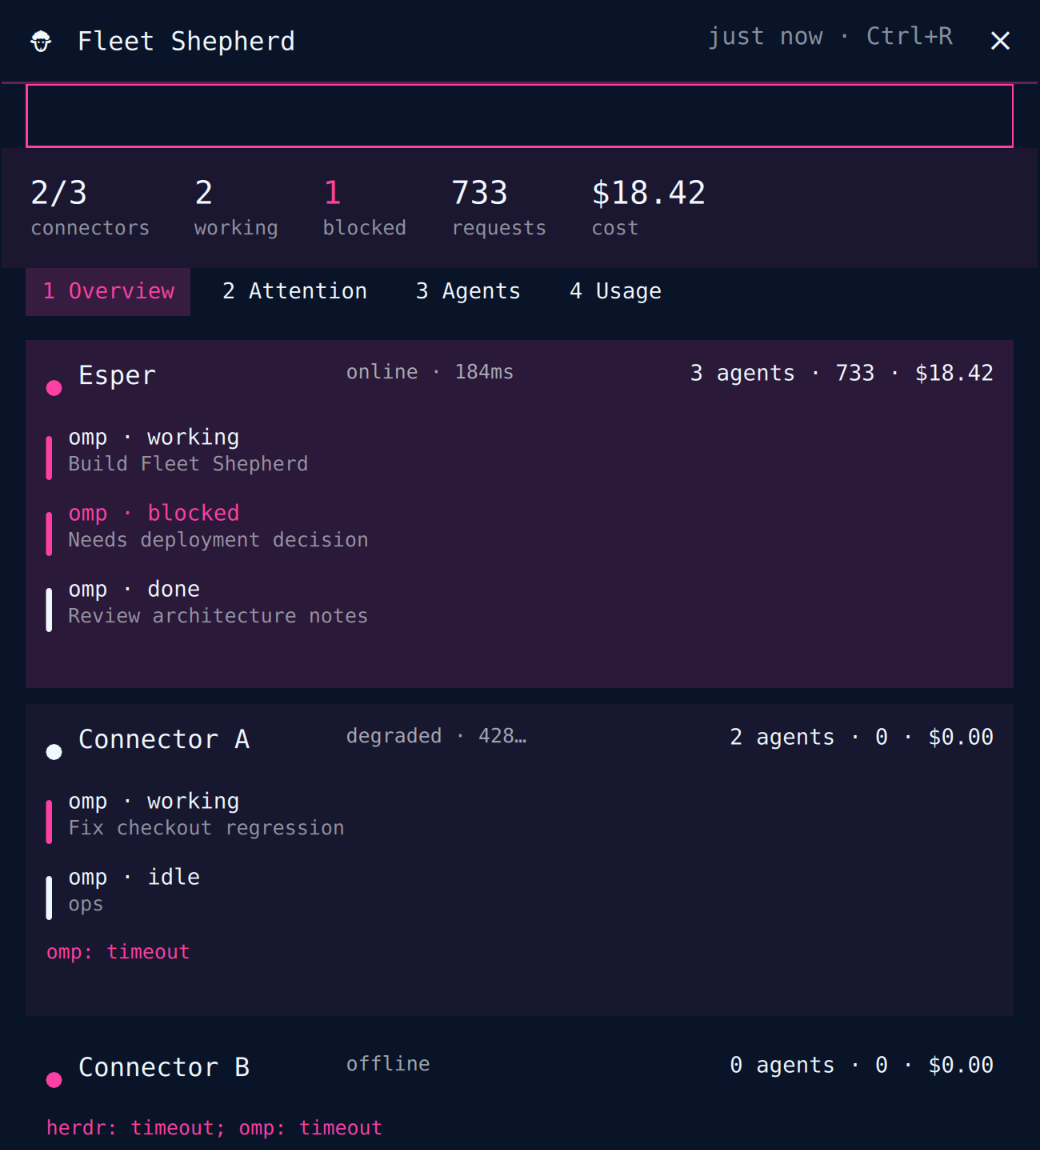
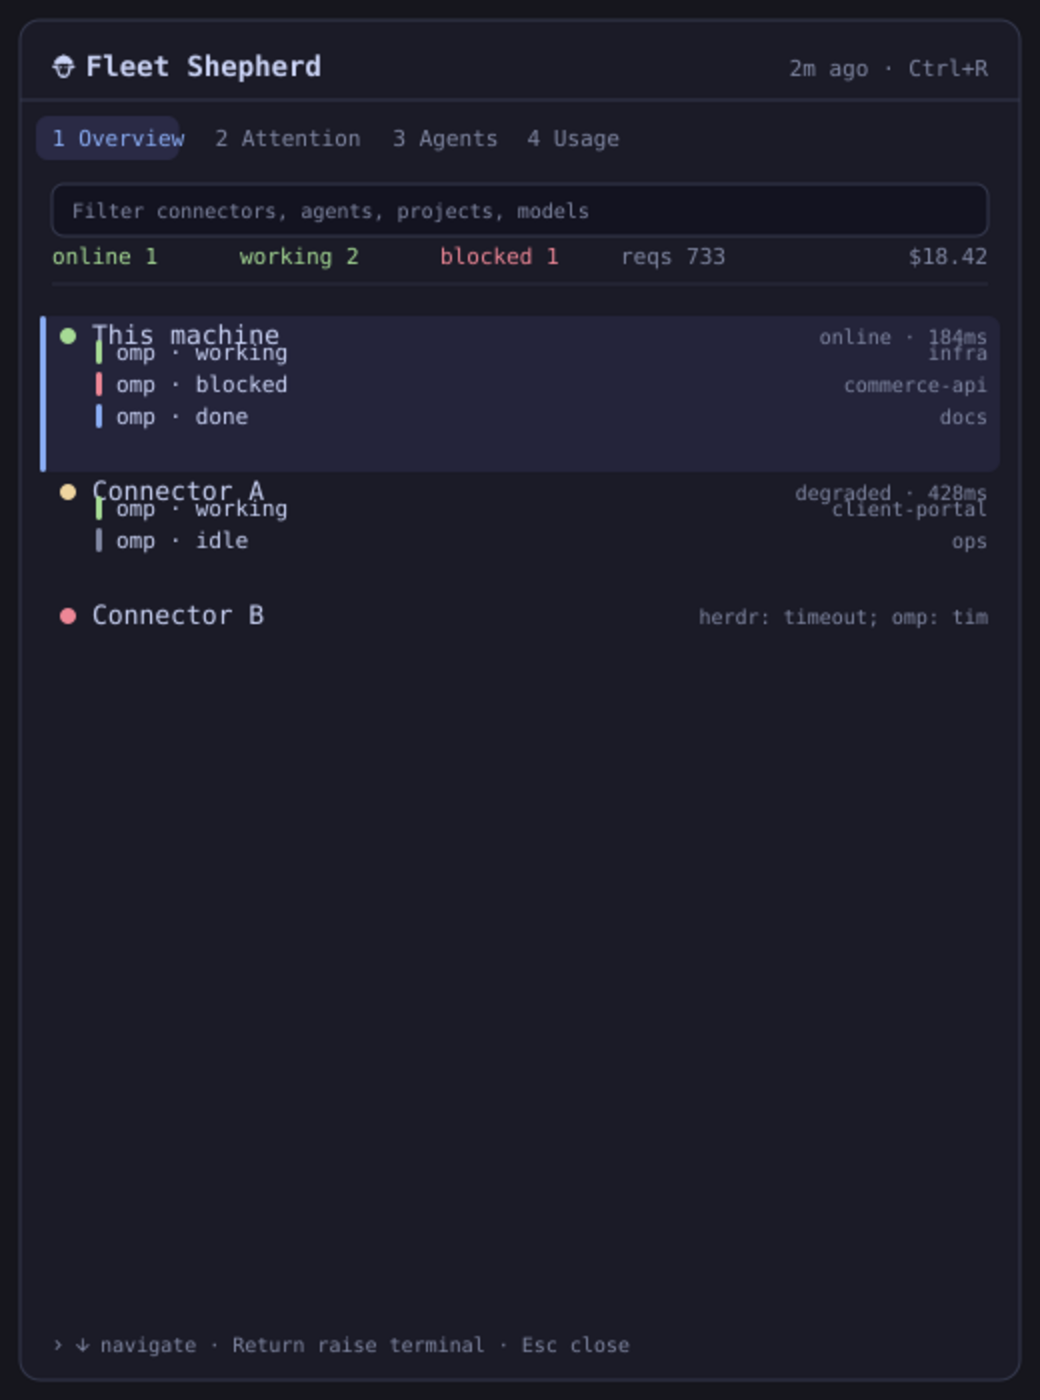
Add animated synthetic preview, troubleshooting, and reproducible asset pipeline
A live panel screenshot cannot ship: it would expose internal hostnames,
agent working titles, and client project paths. preview.png and preview.gif
are rendered by scripts/make_preview.py from tests/fixtures/fleet_demo.json
(synthetic, asserted free of real identifiers), so anyone can reproduce the
assets and no future regeneration can leak. The GIF walks overview
navigation, attention/agents/usage views, and the filter.

README gains the embedded walkthrough, a Troubleshooting section covering
first-run sweep, raise semantics (local terminal only), SSH
noninteractivity, OMP zero-data, and cache invalidation; Development now
documents both test suites and preview regeneration.

diff --git a/scripts/make_preview.py b/scripts/make_preview.py
@@ -1,0 +1,205 @@
+#!/usr/bin/env python3
+"""Render preview.png and preview.gif from synthetic fixture data.
+
+The preview must never contain a live fleet screenshot: real panels carry
+internal hostnames, agent working titles, and client project paths. This
+generator draws the panel layout from tests/fixtures/fleet_demo.json, which
+ships only neutral synthetic data, so anyone can reproduce the assets with:
+
+    python3 scripts/make_preview.py
+
+Requires ImageMagick (magick) and ffmpeg. Writes preview.png (first frame)
+and preview.gif (animated walk-through) at the repo root.
+"""
+from __future__ import annotations
+
+import json
+import subprocess
+import tempfile
+from pathlib import Path
+
+ROOT = Path(__file__).resolve().parents[1]
+FIXTURE = ROOT / "tests" / "fixtures" / "fleet_demo.json"
+W, H = 520, 700
+SCALE = 2
+
+BG = "#16161d"
+PANEL = "#1b1b27"
+BORDER = "#363a4f"
+FG = "#cad3f5"
+MUTED = "#8087a2"
+ACCENT = "#8aadf4"
+OK = "#a6da95"
+WARN = "#eed49f"
+BAD = "#ed8796"
+STALE = "#f5a97f"
+ROW_SEL = "#24243a"
+
+HEALTH = {"online": OK, "degraded": WARN, "offline": BAD}
+STATUS = {"working": OK, "blocked": BAD, "idle": MUTED, "waiting": WARN, "done": ACCENT}
+
+FONT = "DejaVu Sans Mono"
+
+
+def esc(s: str) -> str:
+    return (
+        s.replace("&", "&amp;")
+        .replace("<", "&lt;")
+        .replace(">", "&gt;")
+        .replace('"', "&quot;")
+    )
+
+
+def text(x, y, s, fill=FG, size=12, weight="normal", anchor=None):
+    a = f' text-anchor="{anchor}"' if anchor else ""
+    return (
+        f'<text x="{x}" y="{y}" fill="{fill}" font-family="{FONT}" '
+        f'font-size="{size}" font-weight="{weight}"{a}>{esc(s)}</text>'
+    )
+
+
+def rect(x, y, w, h, fill, rx: float = 0, opacity: float | None = None):
+    o = f' opacity="{opacity}"' if opacity else ""
+    return f'<rect x="{x}" y="{y}" width="{w}" height="{h}" rx="{rx}" fill="{fill}"{o}/>'
+
+
+def load_demo() -> dict:
+    return json.loads(FIXTURE.read_text())
+
+
+def summarize(connectors):
+    online = sum(1 for c in connectors if c["health"] == "online")
+    agents = [a for c in connectors if c.get("herdr") for a in (c["herdr"] or {}).get("agents", [])]
+    working = sum(1 for a in agents if a["status"] == "working")
+    blocked = sum(1 for a in agents if a["status"] == "blocked")
+    reqs = sum((c.get("omp") or {}).get("overall", {}).get("totalRequests", 0) for c in connectors)
+    cost = sum((c.get("omp") or {}).get("overall", {}).get("totalCost", 0) for c in connectors)
+    return online, working, blocked, reqs, cost
+
+
+def frame(conns: list, view: str = "overview", cursor: int = 0, query: str = "", note: str = "") -> str:
+    online, working, blocked, reqs, cost = summarize(conns)
+    s = [f'<svg xmlns="http://www.w3.org/2000/svg" width="{W}" height="{H}" viewBox="0 0 {W} {H}">']
+    s.append(rect(0, 0, W, H, BG))
+
+    # shell chrome
+    s.append(rect(10, 10, W - 20, H - 20, PANEL, rx=10))
+    s.append(
+        f'<rect x="10" y="10" width="{W-20}" height="{H-20}" rx="10" fill="none" '
+        f'stroke="{BORDER}" stroke-width="1"/>'
+    )
+    s.append(text(26, 38, "  Fleet Shepherd", size=14, weight="bold"))
+    s.append(text(W - 26, 38, note or "2m ago · Ctrl+R", fill=MUTED, size=11, anchor="end"))
+    s.append(f'<line x1="10" y1="50" x2="{W-10}" y2="50" stroke="{BORDER}"/>')
+
+    # view tabs
+    tabs = [("1", "Overview", "overview"), ("2", "Attention", "attention"),
+            ("3", "Agents", "agents"), ("4", "Usage", "usage")]
+    tx = 26
+    for num, label, vid in tabs:
+        active = vid == view
+        if active:
+            s.append(rect(tx - 8, 58, 14 + 7.2 * len(label), 22, "#2a2a45", rx=6))
+        s.append(text(tx, 73, f"{num} {label}", fill=ACCENT if active else MUTED, size=11))
+        tx += 24 + 7.2 * len(label)
+
+    # filter field
+    fy = 92
+    s.append(rect(26, fy, W - 52, 26, "#131320", rx=6))
+    s.append(f'<rect x="26" y="{fy}" width="{W-52}" height="26" rx="6" fill="none" stroke="{BORDER}"/>')
+    if query:
+        s.append(text(36, fy + 17, query, fill=FG, size=11))
+        s.append(text(36 + 6.6 * len(query), fy + 17, "|", fill=ACCENT, size=11))
+    else:
+        s.append(text(36, fy + 17, "Filter connectors, agents, projects, models", fill=MUTED, size=10))
+
+    # summary strip
+    sy = 132
+    s.append(text(26, sy, f"online {online}", fill=OK, size=11))
+    s.append(text(120, sy, f"working {working}", fill=OK, size=11))
+    s.append(text(220, sy, f"blocked {blocked}", fill=BAD if blocked else MUTED, size=11))
+    s.append(text(310, sy, f"reqs {reqs:,}", fill=MUTED, size=11))
+    s.append(text(W - 26, sy, f"${cost:,.2f}", fill=MUTED, size=11, anchor="end"))
+    s.append(f'<line x1="26" y1="{sy+10}" x2="{W-26}" y2="{sy+10}" stroke="{BORDER}" opacity="0.6"/>')
+
+    def visible(c):
+        if query:
+            hay = json.dumps(c).lower()
+            return query.lower() in hay
+        if view == "attention":
+            return bool(c.get("herdr") and any(a["status"] == "blocked" for a in (c["herdr"] or {}).get("agents", [])))
+        return True
+
+    rows = [c for c in conns if visible(c)]
+    y = sy + 30
+    for i, c in enumerate(rows):
+        agents = (c.get("herdr") or {}).get("agents", []) or []
+        h = 30 + 16 * min(len(agents[:3]), 3) if view != "usage" else 46
+        if i == cursor and not query:
+            s.append(rect(20, y - 4, W - 40, h, ROW_SEL, rx=6))
+            s.append(rect(20, y - 4, 3, h, ACCENT, rx=1.5))
+        dot = HEALTH.get(c["health"], MUTED)
+        s.append(f'<circle cx="34" cy="{y+6}" r="4" fill="{dot}"/>')
+        s.append(text(46, y + 10, c["label"], size=13))
+        lat = f'{c["health"]} · {c["latencyMs"]}ms' if c["health"] != "offline" else c.get("error", "offline")[:24]
+        s.append(text(W - 26, y + 10, lat, fill=MUTED, size=10, anchor="end"))
+        y += 16
+        if view == "usage" and c.get("omp"):
+            for m in (c["omp"] or {}).get("byModel", [])[:3]:
+                s.append(rect(46, y - 8, 3, 12, ACCENT, rx=1.5))
+                s.append(text(56, y + 2, f'{m["model"]} · {m.get("provider","")} · ${m["totalCost"]:.2f}', fill=MUTED, size=10))
+                y += 16
+            y += 6
+            continue
+        for a in agents[:3]:
+            if view == "attention" and a["status"] != "blocked":
+                continue
+            s.append(rect(48, y - 8, 3, 12, STATUS.get(a["status"], MUTED), rx=1.5))
+            s.append(text(58, y + 2, f'{a["agent"]} · {a["status"]}', size=11))
+            s.append(text(W - 26, y + 2, a.get("activity", a.get("cwd", ""))[:34], fill=MUTED, size=10, anchor="end"))
+            y += 16
+        y += 14
+
+    if not rows:
+        s.append(text(W // 2, y + 20, "no connectors match", fill=MUTED, size=12, anchor="middle"))
+
+    # footer hint
+    s.append(text(26, H - 24, "  navigate · Return raise terminal · Esc close", fill=MUTED, size=10))
+    s.append("</svg>")
+    return "".join(s)
+
+
+def main() -> None:
+    demo = load_demo()
+    conns = demo["connectors"]
+    seq = [
+        {"conns": conns, "view": "overview", "cursor": 0},
+        {"conns": conns, "view": "overview", "cursor": 1},
+        {"conns": conns, "view": "overview", "cursor": 2},
+        {"conns": conns, "view": "attention", "cursor": 0, "note": "1 blocked · attention"},
+        {"conns": conns, "view": "agents", "cursor": 1},
+        {"conns": conns, "view": "usage", "cursor": 0, "note": "usage by model"},
+        {"conns": conns, "view": "overview", "cursor": 0, "query": "api", "note": "filter: api"},
+    ]
+    with tempfile.TemporaryDirectory() as td:
+        tdp = Path(td)
+        for i, spec in enumerate(seq):
+            svg = tdp / f"f{i}.svg"
+            svg.write_text(frame(**spec))
+            subprocess.run(
+                ["magick", "-background", "none", str(svg),
+                 "-resize", f"{W*SCALE}x{H*SCALE}", str(tdp / f"f{i}.png")],
+                check=True, capture_output=True)
+        subprocess.run(
+            ["ffmpeg", "-y", "-framerate", "0.8", "-i", str(tdp / "f%d.png"),
+             "-vf", "split[a][b];[a]palettegen=stats_mode=single[p];[b][p]paletteuse=dither=bayer",
+             str(ROOT / "preview.gif")],
+            check=True, capture_output=True)
+        subprocess.run(
+            ["magick", str(tdp / "f0.png"), str(ROOT / "preview.png")],
+            check=True, capture_output=True)
+    print("wrote preview.png and preview.gif")
+
+
+if __name__ == "__main__":
+    main()

diff --git a/README.md b/README.md
@@ -1,5 +1,9 @@
 # Fleet Shepherd for Omarchy
 
+![Fleet Shepherd panel walkthrough](preview.gif)
+
+Animated walkthrough rendered from synthetic fixture data (`scripts/make_preview.py`) — it never contains a live fleet screenshot.
+
 One read-only operations panel for Herdr agents and OMP usage across a local and SSH connector fleet.
 
 Fleet Shepherd answers three questions from the bar: are all connectors healthy, does any agent need attention, and what is the fleet’s aggregate OMP usage?
@@ -71,6 +75,15 @@ chmod 600 ~/.config/fleet-shepherd/connectors.json
 - `Ctrl+R`: refresh
 - `Esc`: clear filter, then close
 
+## Troubleshooting
+
+- **Panel shows "contacting fleet…" for a long time on first ever run** — the cache is empty, so the helper performs one full fleet sweep (up to 60 s). Every later open paints from cache instantly.
+- **A connector reports `no local herdr window` when raising** — `Return`/click raises a terminal on *this* machine running Herdr for that connector (`herdr` for local, `herdr --remote <target>`); it never SSHes to raise a window. Open one first.
+- **`herdr: command failed` on a remote** — verify noninteractivity by hand: `ssh <host> herdr api snapshot` must return JSON without a password prompt.
+- **OMP shows zero for a connector** — check `ssh <host> "omp stats --json"` exits 0; usage appears only where OMP is installed and has history.
+- **Panel did not appear after reinstall** — restart the shell (`omarchy-shell`), then `omarchy plugin list` to confirm `enabled=true`.
+- **Stale data after editing `connectors.json`** — the cache is keyed to the config; changes invalidate it on the next poll.
+
 ## Install
 
 Install directly:
@@ -96,6 +109,19 @@ rm -rf ~/.config/fleet-shepherd
 Fleet Shepherd renders potentially sensitive project paths and terminal titles locally. It does not persist snapshots, transmit telemetry, or read raw OMP sessions. Connector configuration is read via a bounded no-follow, nonblocking descriptor. SSH is BatchMode and StrictHostKeyChecking=yes. Every subprocess and response has a hard deadline and byte ceiling.
 
 ## Development
+
+Tests:
+
+```bash
+python3 -m unittest discover -s tests   # helper, focus, stream isolation, doc claims
+node --test tests/                      # Model.js + QML contract tests
+```
+
+Preview assets are generated, never screenshotted:
+
+```bash
+python3 scripts/make_preview.py         # writes preview.png + preview.gif from tests/fixtures/fleet_demo.json
+```
 
 ```bash
 python3 -m unittest discover -s tests -v
